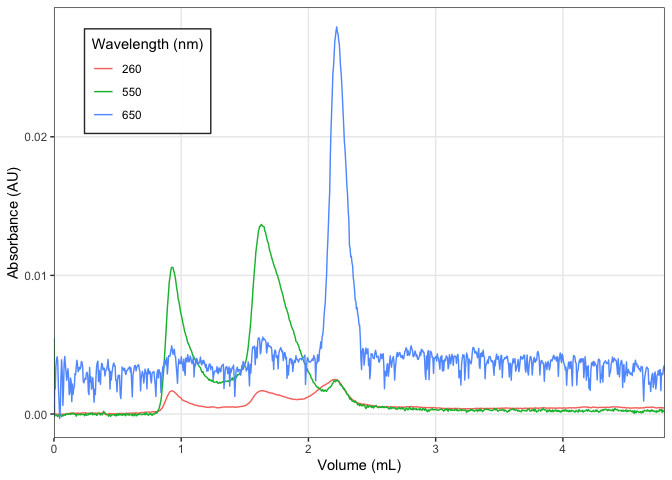
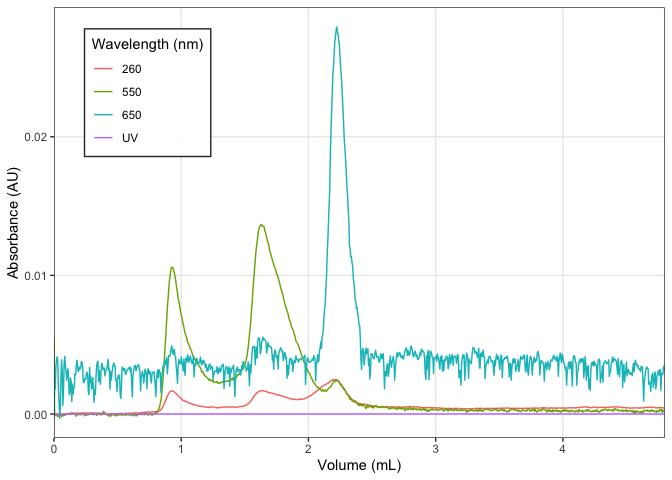
Document the new types in the README, article and reference index
- Describe what chromr does in the README, which said "The goal of chromr is to ...", and add a section on units, fractions and wells.
- Read `example_akta_1.asc` with `read_akta_old()` in the ÄKTA article, which read it by hand because the reader failed on it.
- Group the reference index by task.

diff --git a/README.md b/README.md
@@ -12,7 +12,9 @@ coverage](https://codecov.io/gh/BradyAJohnston/chromr/branch/main/graph/badge.sv
 
 <!-- badges: end -->
 
-The goal of chromr is to …
+chromr reads chromatograms exported from FPLC instruments, the BioRad
+QuadTec and NGC and the ÄKTA, into tidy data frames, and plots them with
+their fractions.
 
 ## Installation
 
@@ -45,20 +47,24 @@ fl <- system.file(
 dat <- fl |> 
   chrom_read_quadtech()
 dat
-#> # A tibble: 960 × 10
-#>     time percent_b    au m_s_cm   psi  volume    a280     a260     a550     a650
-#>    <dbl>     <dbl> <dbl>  <dbl> <dbl>   <dbl>   <dbl>    <dbl>    <dbl>    <dbl>
-#>  1     0         0     0   16.0   265 0        0       0        5.51e-3  0      
-#>  2     1         0     0   16.0   266 0.00501  4  e-6  1.3 e-5 -1.6 e-4  1.87e-3
-#>  3     2         0     0   16.0   270 0.0100   0      -8   e-6 -6.40e-5  1.80e-3
-#>  4     3         0     0   16.0   272 0.0150  -1.3e-5 -2.20e-5 -6.40e-5  3.39e-3
-#>  5     4         0     0   16.0   272 0.0200  -6  e-6 -1.5 e-5 -9.5 e-5  3.91e-3
-#>  6     5         0     0   16.0   276 0.0250  -6  e-6 -1.80e-5 -1.28e-4  4.13e-3
-#>  7     6         0     0   16.0   275 0.0300  -6  e-6 -2.90e-5 -1.93e-4  3.76e-3
-#>  8     7         0     0   16.0   273 0.0350  -2  e-6 -8   e-6 -1.28e-4  1.92e-3
-#>  9     8         0     0   16.0   273 0.0400   3  e-6 -1.10e-5 -6.40e-5  8.83e-4
-#> 10     9         0     0   16.0   275 0.0450  -8  e-6 -9   e-6 -9.60e-5 -3.2 e-4
+#> # A chromatogram: 960 × 10
+#> # Instrument:     BioRad QuadTec
+#> # Run:            20220801_dsnPPR10_Cy3_1_AF647_2
+#> # Date:           02:10:17 PM 08-01-22
+#>     time  volume    a280     a260     a550     a650   uv percent_b conductivity
+#>    <dbl>   <dbl>    <AU>     <AU>     <AU>     <AU> <AU>     <dbl>        <dbl>
+#>  1     0 0        0       0        5.51e-3  0          0         0         16.0
+#>  2     1 0.00501  4  e-6  1.3 e-5 -1.6 e-4  1.87e-3    0         0         16.0
+#>  3     2 0.0100   0      -8   e-6 -6.40e-5  1.80e-3    0         0         16.0
+#>  4     3 0.0150  -1.3e-5 -2.20e-5 -6.40e-5  3.39e-3    0         0         16.0
+#>  5     4 0.0200  -6  e-6 -1.5 e-5 -9.5 e-5  3.91e-3    0         0         16.0
+#>  6     5 0.0250  -6  e-6 -1.80e-5 -1.28e-4  4.13e-3    0         0         16.0
+#>  7     6 0.0300  -6  e-6 -2.90e-5 -1.93e-4  3.76e-3    0         0         16.0
+#>  8     7 0.0350  -2  e-6 -8   e-6 -1.28e-4  1.92e-3    0         0         16.0
+#>  9     8 0.0400   3  e-6 -1.10e-5 -6.40e-5  8.83e-4    0         0         16.0
+#> 10     9 0.0450  -8  e-6 -9   e-6 -9.60e-5 -3.2 e-4    0         0         16.0
 #> # ℹ 950 more rows
+#> # ℹ 1 more variable: pressure <dbl>
 ```
 
 ``` r
@@ -109,3 +115,85 @@ dat |>
 
 <img src="man/figures/README-unnamed-chunk-5-1.png"
 style="width:100.0%" />
+
+## Units, fractions and wells
+
+Every reader gives the same columns, and records the run it came from.
+Absorbance columns know their wavelength and unit, so plots are labelled
+with the unit, and joining runs in AU and mAU converts them to mAU.
+
+``` r
+ngc <- chrom_read_ngc(system.file("extdata", "ngc_sec.csv", package = "chromr"))
+ngc
+#> # A chromatogram: 6,510 × 6
+#> # Instrument:     BioRad NGC
+#> # Run:            20191126_IMAC
+#>      volume   a260   a280 conductivity percent_b pressure
+#>       <dbl>  <mAU>  <mAU>        <dbl>     <dbl>    <dbl>
+#>  1 0.000500  0.747   0            28.0         0    NA   
+#>  2 0.00503   1.10    0            28.0         0     5   
+#>  3 0.0104    0.784 NaN            28.0         0     5   
+#>  4 0.0147    0.784 NaN            28.0         0     5   
+#>  5 0.0213   -1.26  NaN            28.0         0     5   
+#>  6 0.0280   -3.21  NaN            28.0         0     5   
+#>  7 0.0347   -4.56   -8.57         27.7         0     5   
+#>  8 0.0413   -5.45   -8.58         27.8         0     5.55
+#>  9 0.0480   -6.05   -8.39         27.7         0     6.09
+#> 10 0.0547   -6.39   -8.12         27.7         0     6.64
+#> # ℹ 6,500 more rows
+
+chrom_meta(ngc)$units
+#>       volume conductivity    percent_b     pressure 
+#>         "mL"      "mS/cm"          "%"        "psi"
+```
+
+Dividing absorbance gives a plain ratio, such as A260/A280:
+
+``` r
+ngc |>
+  dplyr::filter(volume > 10) |>
+  dplyr::mutate(ratio = a260 / a280) |>
+  dplyr::select(volume, a260, a280, ratio)
+#> # A chromatogram: 5,602 × 4
+#> # Instrument:     BioRad NGC
+#> # Run:            20191126_IMAC
+#>    volume  a260  a280 ratio
+#>     <dbl> <mAU> <mAU> <dbl>
+#>  1   10.0  507.  551. 0.921
+#>  2   10.0  507.  551. 0.921
+#>  3   10.0  506.  549. 0.922
+#>  4   10.1  505.  548. 0.922
+#>  5   10.1  504.  547. 0.922
+#>  6   10.1  503.  545. 0.922
+#>  7   10.1  502.  544. 0.923
+#>  8   10.1  501.  543. 0.923
+#>  9   10.1  500.  542. 0.923
+#> 10   10.2  499.  540. 0.924
+#> # ℹ 5,592 more rows
+```
+
+`chrom_fractions()` gives the volumes each fraction covers, and
+`fraction_to_well()` the well of the collection plate each fraction went
+into, as [wellr](https://bradyajohnston.github.io/wellr/) well IDs,
+ready to join to plate-reader data.
+
+``` r
+akta <- read_akta_old(system.file("extdata", "example_akta_2.asc", package = "chromr"))
+
+chrom_fractions(akta) |>
+  dplyr::mutate(well = fraction_to_well(fraction))
+#> # A tibble: 73 × 4
+#>    fraction start   end well     
+#>      <frac> <dbl> <dbl> <well:96>
+#>  1        1  9.11  11.0 A01      
+#>  2        2 11.0   13.1 A02      
+#>  3        3 13.1   15.0 A03      
+#>  4        4 15.0   17.1 A04      
+#>  5        5 17.1   19.0 A05      
+#>  6        6 19.0   21.1 A06      
+#>  7        7 21.1   23.0 A07      
+#>  8        8 23.0   25.1 A08      
+#>  9        9 25.1   27.2 A09      
+#> 10       10 27.2   29.1 A10      
+#> # ℹ 63 more rows
+```
